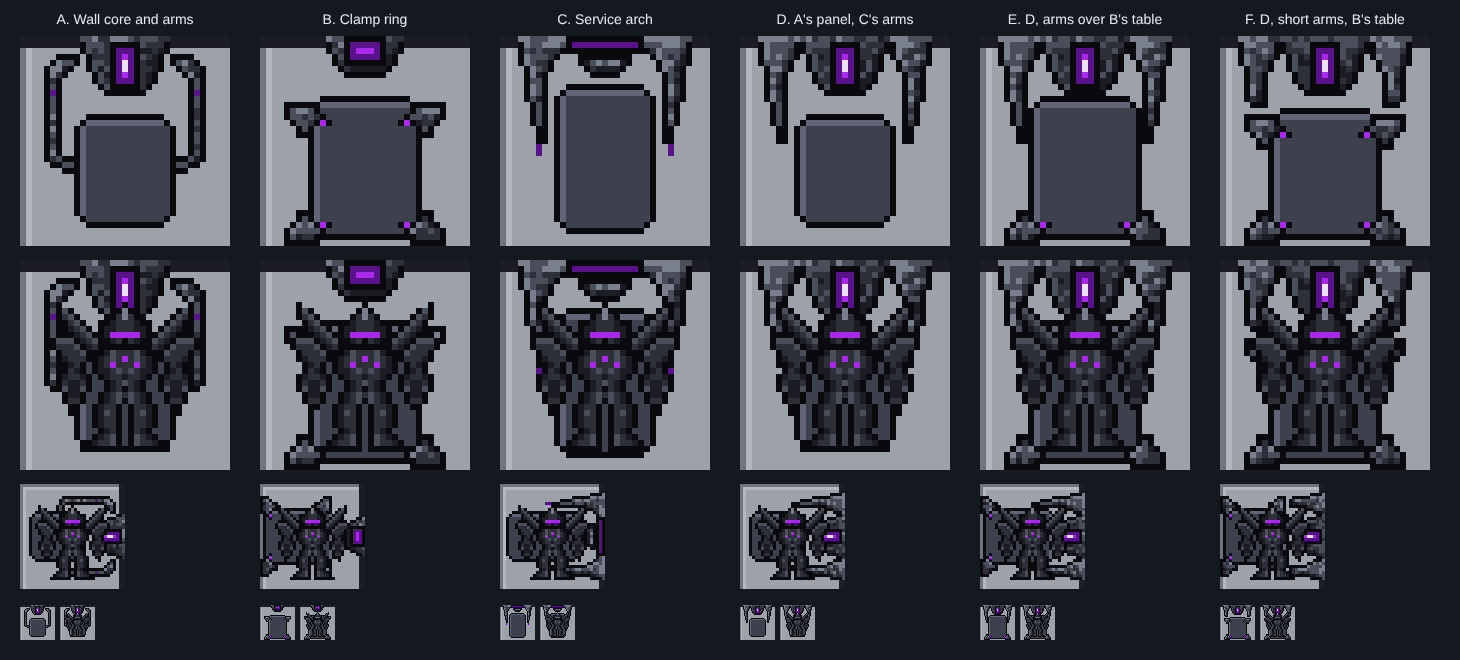
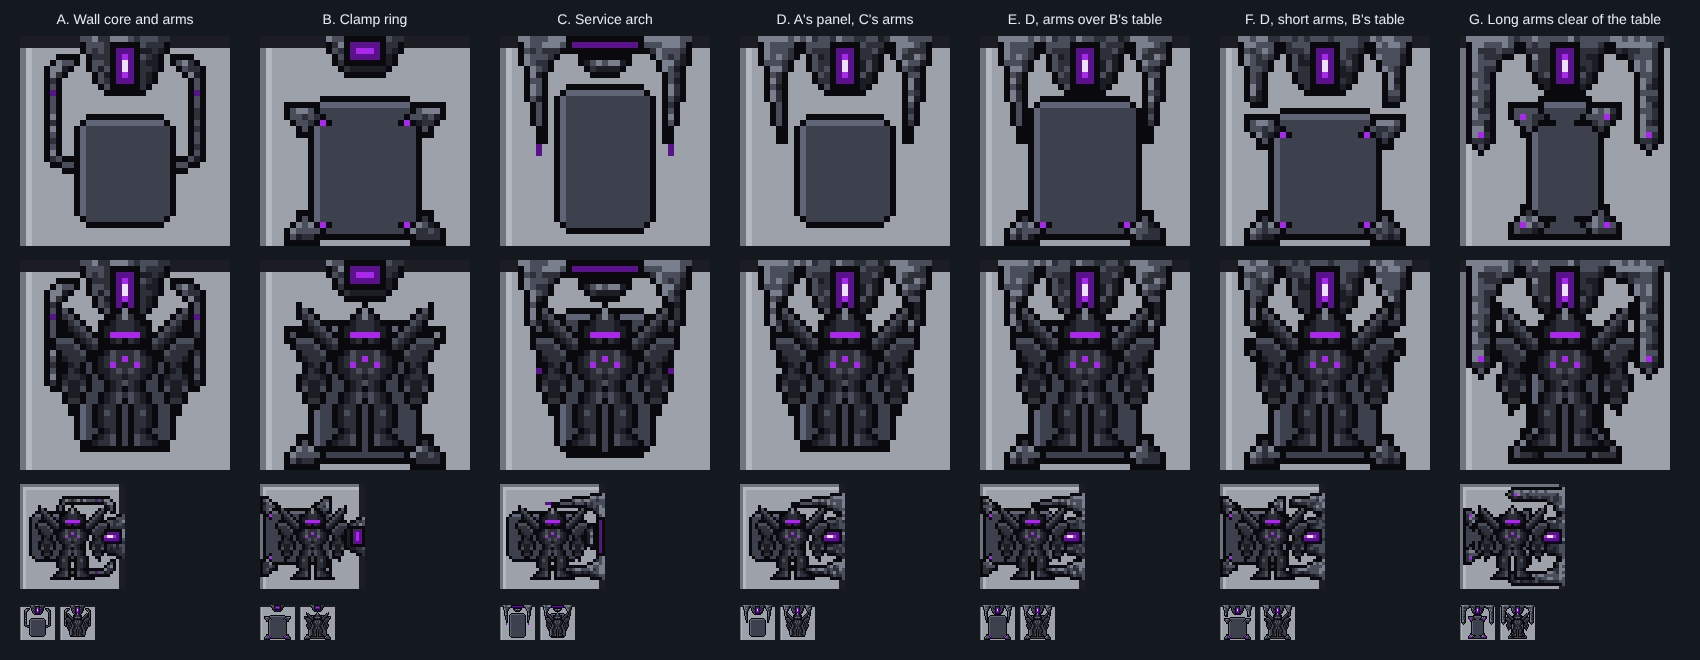
Mecha Servicing Core G: long arms clear of the table, four jaws, purple lights on the jaws and the arm feet
Claude-Session: https://claude.ai/code/session_01WZGEuQ1NEBVidT9MSQSZ2z

diff --git a/docs/art/mecha/servicing-core/tools/core_px.py b/docs/art/mecha/servicing-core/tools/core_px.py
@@ -154,8 +154,38 @@ def core_f():
     return mix({y: C_ARMS[y] for y in range(12)}, 12, True)
 
 
+def core_g(top=10):
+    """G. heromedel's notes on E: long arms that stop clear of the table (2 px gap), the table narrowed so all four
+    jaws (shoulders) fit, a purple light on each jaw, and a purple light near the foot of each arm, inside it."""
+    body = housing({0: (10, 17), 1: (10, 17), 2: (10, 17), 3: (11, 17), 4: (11, 17), 5: (11, 17), 6: (12, 17),
+                    7: (12, 17), 8: (13, 17), 9: (14, 17)})
+    arm_rows = {0: (1, 9), 1: (1, 9), 2: (1, 9), 3: (1, 8), 4: (1, 6), 5: (1, 6)}
+    arm_rows.update({y: (1, 5) for y in range(6, 18)})
+    arm_rows.update({18: (2, 4), 19: (3, 3)})
+    arms = housing(arm_rows)
+    shape = poly_mask({1: (8, 13), 2: (8, 13), 3: (8, 14), 4: (9, 15), 5: (10, 12), 6: (10, 11)})
+    jaw = {(x, y + top) for x, y in shape}
+    low = {(x, 2 * top + 24 - y) for x, y in jaw}
+    jaws = jaw | mirror(jaw) | low | mirror(low)
+    px = {}
+    pad(px, 11, top, 24, 34, corners=False)
+    px.update(shade_parts([(jaws, ARMOUR)], 9))
+    px.update(shade_parts([(arms, ARMOUR), (body, DARK)], 9))
+    core_window(px, 16, 2, 19, 8)
+    lights = [(10, top + 3), (24, top + 3), (10, top + 21), (24, top + 21), (3, 16), (31, 16)]
+    for xy in lights:
+        px[xy] = PURPLE
+    near = {(x + dx, y + dy) for x, y in arms if y > 9 for dx in range(-2, 3) for dy in range(-2, 3)}
+    table = jaws | {(x, y) for x in range(11, 24) for y in range(top, 34)}
+    assert not (near & table), "the arms must stay 2 px clear of the table"
+    for x, y in lights:   # each light sits inside its part, never on an edge pixel
+        assert all(px.get((x + dx, y + dy)) not in (None, OUTLINE) for dx, dy in ((1, 0), (-1, 0), (0, 1), (0, -1))), (x, y)
+    return px
+
+
 OPTIONS = [("A. Wall core and arms", core_a), ("B. Clamp ring", core_b), ("C. Service arch", core_c), ("D. A's panel, C's arms", core_d),
-           ("E. D, arms over B's table", core_e), ("F. D, short arms, B's table", core_f)]
+           ("E. D, arms over B's table", core_e), ("F. D, short arms, B's table", core_f),
+           ("G. Long arms clear of the table", core_g)]
 TURN_E = lambda x, y: (34 - y, x)
 
 
@@ -188,7 +218,7 @@ if __name__ == "__main__":
     cells = []
     for i, (name, fn) in enumerate(OPTIONS):
         px = fn()
-        open(os.path.join(out, f"core-option-{'abcdef'[i]}.svg"), "w").write(
+        open(os.path.join(out, f"core-option-{'abcdefg'[i]}.svg"), "w").write(
             f'<svg xmlns="http://www.w3.org/2000/svg" viewBox="0 0 35 35" width="35" height="35">{to_svg(px)}</svg>\n')
         x0 = 20 + i * (T * S + 30)
         cells.append(

diff --git a/docs/art/mecha/servicing-core/README.md b/docs/art/mecha/servicing-core/README.md
@@ -24,6 +24,8 @@ faces up and is never turned. Two ways to fit them (`review/mix-tiles.png`, `rev
 | E | the arms reach down over the table's upper corners (its upper jaws left off) |
 | F | shorter arms ending above the table, which keeps all four jaws |
 
-`review/inroom.png` shows each in the battle cross's core room, empty and with a HalfMech standing in it.
+| G | heromedel's notes on E: long arms stopping 2 px clear of the table, the table narrowed so all four jaws (shoulders) fit, a purple light on each jaw, and one near the foot of each arm, inside it, not on an edge pixel (the build checks the gap and the lights) |
+
+`review/g-tile.png`, `review/g-inroom.png` show G. `review/inroom.png` shows each in the battle cross's core room, empty and with a HalfMech standing in it.
 
 Built by `tools/core_px.py ../crew/mecha-crew-sheet.svg OUT_DIR`.
